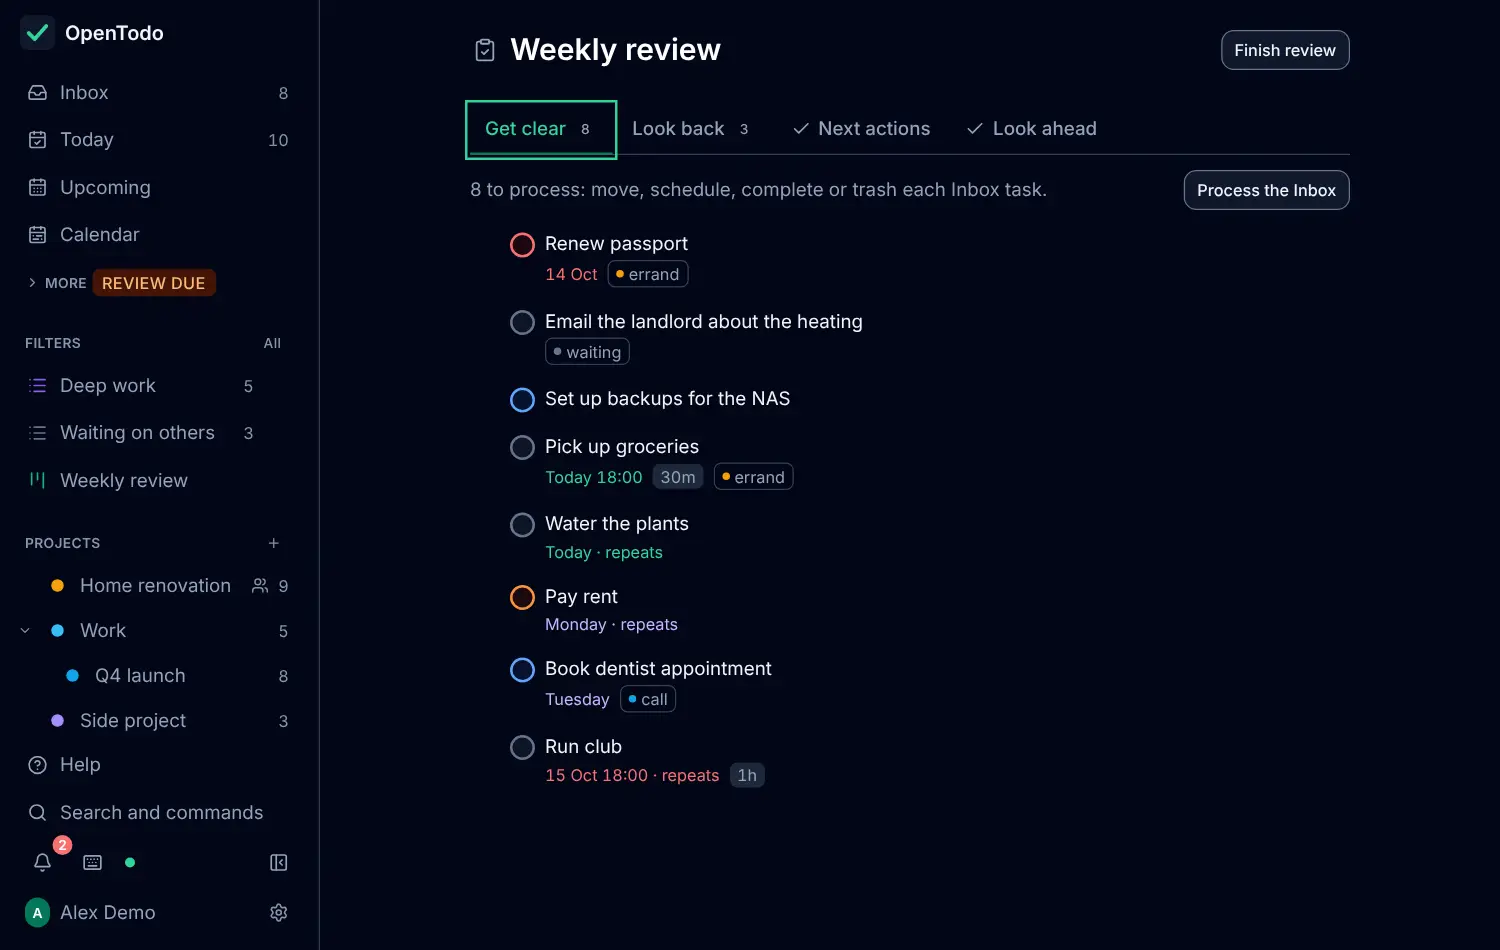
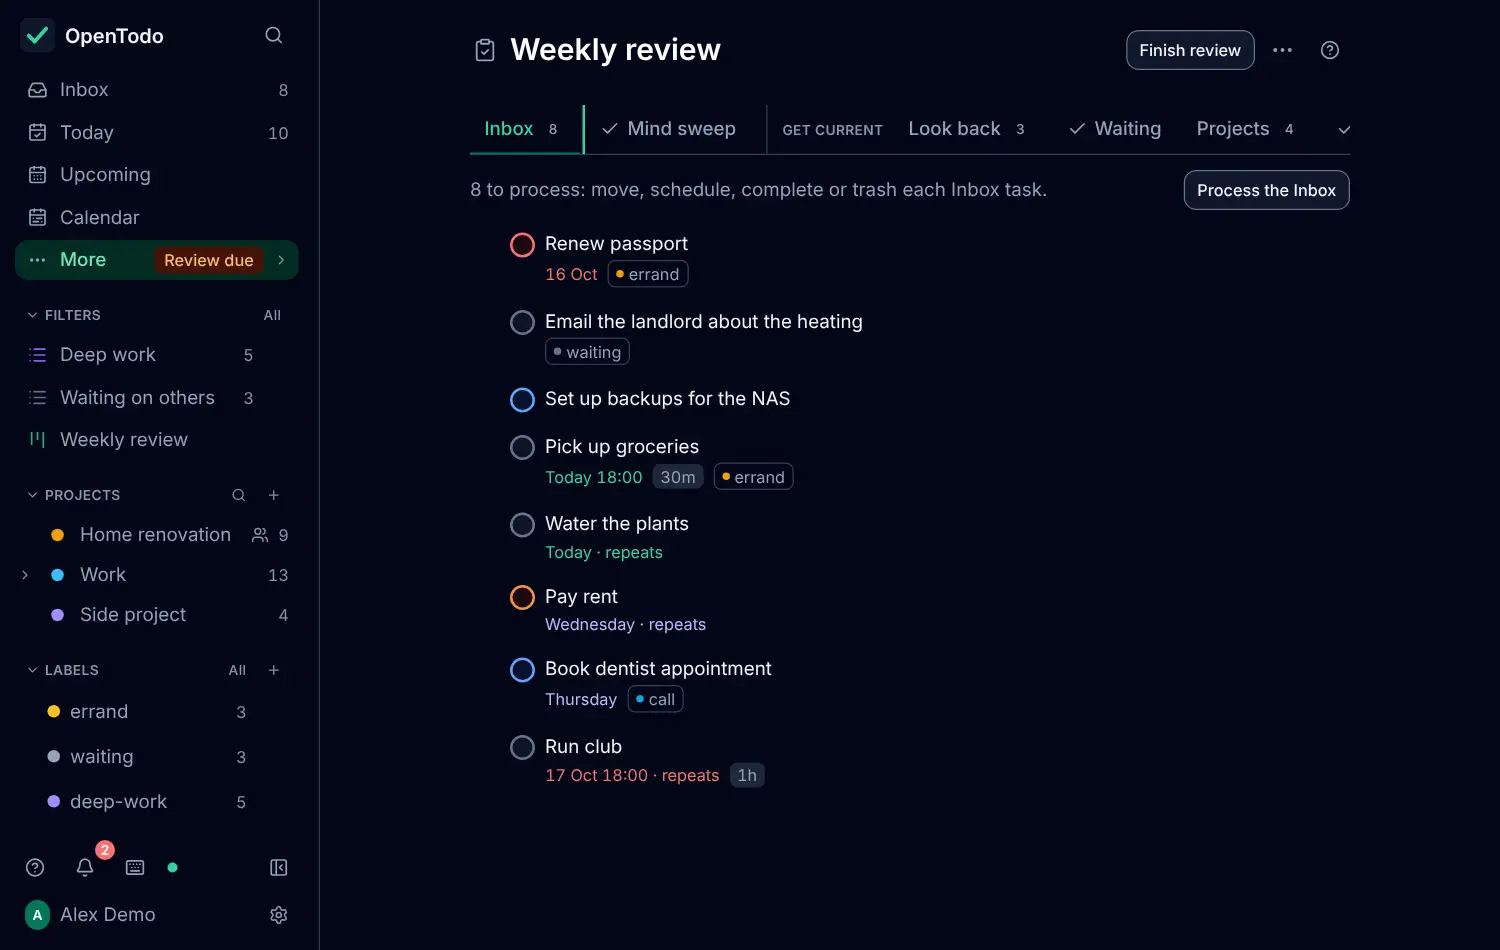
Open Loops: docs screenshots, e2e smoke, roadmap and changelog (open-loops-method 9)
New docs images for the Loop home, Next and the project walk; the review
image refreshed; the e2e smoke walks Open Loops first and back; More no
longer repeats the review marker when Review is primary; the method link
keeps its visible words as its accessible name; review tabs show phase
names from 640 px; ROADMAP row and CHANGELOG entries; smoke notes.

Claude-Session: https://claude.ai/code/session_01Hohs98Cw6DYQoCJH9q4RB6

diff --git a/web/src/ui/Tabs.tsx b/web/src/ui/Tabs.tsx
@@ -1,7 +1,7 @@
 // Tabs (OpenSpec change ui-primitives, design D9): WAI-ARIA tabs with roving
 // focus and automatic activation (arrow keys, Home and End). Tabs may carry a
-// group (open-loops-method D6): a group's name is drawn before its first tab and
-// read with each of its tabs. The row scrolls sideways inside itself when it is
+// group (open-loops-method D6): a group's name is drawn before its first tab (from
+// 640 px; a divider on phones) and read with each of its tabs. The row scrolls sideways inside itself when it is
 // wider than the screen, keeping the selected tab in view.
 import { Fragment, useEffect, useId, useRef, type KeyboardEvent, type ReactNode } from 'react'
 
@@ -35,7 +35,13 @@ export function Tabs({ tabs, value, onChange, label, children }: TabsProps) {
     onChange(tabs[next].id)
     refs.current[tabs[next].id]?.focus()
   }
-  useEffect(() => { refs.current[value]?.scrollIntoView?.({ block: 'nearest', inline: 'nearest' }) }, [value])
+  const groupRefs = useRef<Record<string, HTMLSpanElement | null>>({})
+  // The selected tab comes into view with its group's name when they fit, the tab itself first.
+  const group = tabs.find((t) => t.id === value)?.group
+  useEffect(() => {
+    if (group) groupRefs.current[group]?.scrollIntoView?.({ block: 'nearest', inline: 'nearest' })
+    refs.current[value]?.scrollIntoView?.({ block: 'nearest', inline: 'nearest' })
+  }, [value, group])
   return (
     <div>
       <div role="tablist" aria-label={label} onKeyDown={move} className="ui-scroller flex gap-1 overflow-x-auto overscroll-x-contain border-b border-default" data-tabs-row>
@@ -45,7 +51,7 @@ export function Tabs({ tabs, value, onChange, label, children }: TabsProps) {
           return (
             <Fragment key={t.id}>
             {startsGroup && (
-              <span aria-hidden="true" data-tab-group={t.group} className={`flex shrink-0 items-center whitespace-nowrap pr-1 text-hint font-semibold uppercase tracking-wide text-faint ${i > 0 ? 'ml-2 border-l border-default pl-3' : 'pl-1'}`}>{t.group}</span>
+              <span aria-hidden="true" ref={(el) => { groupRefs.current[t.group!] = el }} data-tab-group={t.group} className={`flex shrink-0 items-center whitespace-nowrap text-hint font-semibold uppercase tracking-wide text-faint ${i > 0 ? 'ml-1 border-l border-default pl-2 sm:ml-2 sm:pl-3' : ''}`}><span className="hidden pr-1 sm:inline">{t.group}</span></span>
             )}
             <button
               ref={(el) => { refs.current[t.id] = el }}

diff --git a/web/src/app/help/methodLink.test.tsx b/web/src/app/help/methodLink.test.tsx
@@ -49,8 +49,8 @@ describe('References to the method (open-loops)', () => {
     const r = await render(<Inbox />)
     await waitFor(() => !!r.container.querySelector('[data-method-link]'))
     const link = r.container.querySelector<HTMLButtonElement>('[data-method-link="catch"]')!
-    expect(link.textContent).toBe('Catch·Open Loops')
-    expect(link.getAttribute('aria-label')).toContain('Open Loops')
+    expect(link.textContent).toBe('Catch·Open Loops: open the method guide')
+    expect(link.getAttribute('aria-label')).toBeNull()
     await click(link)
     expect(opened).toBe('method/catch')
     expect(r.container.querySelector('[data-page-title]')?.textContent).toBe('Inbox')
@@ -72,7 +72,7 @@ describe('References to the method (open-loops)', () => {
     await setMethodMode('first')
     const r = await render(<WithMethod move="clarify"><span data-progress>4 of 17</span></WithMethod>)
     await waitFor(() => !!r.container.querySelector('[data-method-link="clarify"]'))
-    expect(r.container.textContent).toMatch(/^4 of 17·Clarify·Open Loops$/)
+    expect(r.container.textContent).toMatch(/^4 of 17·Clarify·Open Loops: open the method guide$/)
     await r.unmount()
   })
 

diff --git a/web/src/app/help/MethodLink.tsx b/web/src/app/help/MethodLink.tsx
@@ -24,11 +24,12 @@ export function MethodLink({ move }: { move?: MoveId }) {
   const screen = METHOD_HELP_SCREENS[page]
   return (
     <button type="button" data-method-link={page} data-help-screen={screen} aria-haspopup="dialog"
-      aria-label={label ? t('{move}, a move of {method}: open the method guide', { move: label, method: METHOD_NAME }) : t('Open the {method} guide', { method: METHOD_NAME })}
       className="touch-target inline-flex min-w-0 items-center gap-1 truncate rounded-control text-meta text-muted underline decoration-dotted underline-offset-2 hover:text-default"
       onClick={(e) => openHelp(screen, e.currentTarget)}>
       {label && <><span>{label}</span><span aria-hidden="true">·</span></>}
       <span>{METHOD_NAME}</span>
+      {/* The visible words start the accessible name (WCAG 2.5.3 Label in Name); the purpose follows for screen readers. */}
+      <span className="sr-only">{t(': open the method guide')}</span>
     </button>
   )
 }

diff --git a/web/src/app/Sidebar.tsx b/web/src/app/Sidebar.tsx
@@ -346,7 +346,8 @@ export function Sidebar({ route, user, onSearch, onShortcuts, onAssistant, colla
   const more = moreList.map((m) => ({ ...m, node: item(m.route, m.label, m.icon, undefined, m.badge) }))
   const primaryExtra = first ? [] : more.filter((m) => m.id !== 'ask' && promoted.includes(m.id as Promotable))
   // A due review shows on the closed More heading too, so the marker is never hidden.
-  const moreBadge = unreadBadge ?? (due ? <span data-review-due-more><Badge hue="orange">{t('Review due')}</Badge></span> : undefined)
+  // In Open Loops first the Review entry is a primary item, so More does not repeat its marker.
+  const moreBadge = unreadBadge ?? (due && !first ? <span data-review-due-more><Badge hue="orange">{t('Review due')}</Badge></span> : undefined)
   const rest = more.filter((m) => !primaryExtra.includes(m))
 
   return (

diff --git a/web/src/app/sidebar.test.tsx b/web/src/app/sidebar.test.tsx
@@ -145,6 +145,9 @@ describe('primary destinations and More (ux-overhaul 4.1)', () => {
     const r = await render(<Sidebar route={{ view: 'inbox' }} user={user} />)
     await waitFor(() => primaryOf(r.container)[0] === 'loop')
     expect(primaryOf(r.container)).toEqual(['loop', 'inbox', 'today', 'next', 'waiting', 'review'])
+    // Review is a primary item here, so the closed More row does not repeat its marker.
+    expect(r.container.querySelector('[data-review-due-more]')).toBeNull()
+    expect(r.container.querySelector('[data-destination="review"] [data-review-due]')).not.toBeNull()
     await click(moreToggle(r.container))
     expect(moreItems(r.container).slice(0, 4)).toEqual(['upcoming', 'day', 'anytime', 'someday'])
     expect(moreItems(r.container)).not.toContain('loop')

diff --git a/openspec/changes/open-loops-method/tasks.md b/openspec/changes/open-loops-method/tasks.md
@@ -30,7 +30,7 @@
 
 - [x] 4.1 Add `/next` and `/waiting` routes, lazy views on the grouped list rendering (context groups with "Anywhere"; assignee groups then "Blocked by another task"), their empty states, and the shortcuts `g` then `Shift+N` and `g` then `Shift+W` in the registry. Verify with component tests for "Complete and continue", "Empty", "Delegated in triage", "Blocker done" and "Two contexts", and with the shortcut registry test (`npm test`).
 - [x] 4.2 Add `loop`, `next` and `waiting` to the More group, the command palette, the start view choices and the promotable destinations. Verify with `sidebar.test.tsx` cases for "Companion promotes Next" and "Older client", and with the palette test (`npm test`).
-- [ ] 4.3 Pass `MethodLink` on Next (Do) and Waiting (Place), and document both views in `docs/views.md` and `docs/method/places.md`, with screenshots through `make docs-screenshots`. Verify with `npm run docs:check` and `make docs` regenerating `docs/keyboard.md`.
+- [x] 4.3 Pass `MethodLink` on Next (Do) and Waiting (Place), and document both views in `docs/views.md` and `docs/method/places.md`, with screenshots through `make docs-screenshots`. Verify with `npm run docs:check` and `make docs` regenerating `docs/keyboard.md`.
 
 ## 5. The review becomes the Rhythms (design D4, D5, D6)
 
@@ -40,7 +40,7 @@
 - [x] 5.4 Build the project walk card mode (queue ordered by `project_prefs.reviewed_at`, card contents, the keys `r`/`q`/`o`/`a`/`j`/Space/`k` registered in the shortcut table, the live region, the summary after the last card, touch buttons at 360 px). Verify with component tests for "Add a next action, then mark reviewed", "Resume on another device", "Shared project the user cannot edit", "Archive offline" and both "Personal review stamp" scenarios, and with the layout check at 360 px (`npm test`, `make layout-check`).
 - [x] 5.5 Build the Daily check (`/review/daily`, `g` then `Shift+R`, `f` focus toggle up to three, "Done for today") and the Monthly look (`/review/monthly`: Areas, Old someday, Trend), both in the header menu. Verify with component tests for "Pick a focus", "Next day", "Done for today", "Areas with stalled children" and "Daily and weekly on different devices" (`npm test`).
 - [x] 5.6 Implement the rhythm markers per mode on the sidebar Review entry and the once-a-day daily check toast in `first` mode (a per-device date in local storage). Verify with tests for "Lists only" and "Open Loops first in the morning", plus "Review due" (`npm test`).
-- [ ] 5.7 Rewrite `docs/review-and-statistics.md` for the seven steps, the walk, the Daily check and the Monthly look, and `docs/method/review.md` and `rhythms.md` to match, with new screenshots. Refresh the `weekly-review` assistant skill's instructions to follow the new steps (same id). Verify with `npm run docs:check`, `make docs`, and the assistant skills test still listing five skills (`go test ./internal/assistant/...`).
+- [x] 5.7 Rewrite `docs/review-and-statistics.md` for the seven steps, the walk, the Daily check and the Monthly look, and `docs/method/review.md` and `rhythms.md` to match, with new screenshots. Refresh the `weekly-review` assistant skill's instructions to follow the new steps (same id). Verify with `npm run docs:check`, `make docs`, and the assistant skills test still listing five skills (`go test ./internal/assistant/...`).
 
 ## 6. How you work, the Loop home and the sidebar (design D2, D7, D9)
 
@@ -48,7 +48,7 @@
 - [x] 6.2 Make `sidebarLayout.ts` mode-aware (`first`: Loop home, Inbox, Today, Next, Waiting, Review; promotions set aside but kept) and disable the destination switches in Settings → Appearance in `first` mode. Verify with `sidebar.test.tsx` cases for "Default sidebar" (four destinations), "Open Loops first sidebar", "Promotions kept across modes" and "Open Loops first" (appearance), and with `budget.test.tsx` holding at six (`npm test`).
 - [x] 6.3 Build the Loop home (`/loop`, `g` then `Shift+L`, five tiles with live counts, today's focus rows, one column at 360 px, list semantics). Verify with component tests for "Morning on the Loop home", "A capture from another device" and "Keyboard path", plus an axe check and the layout check at 360 px (`npm test`, `make layout-check`).
 - [x] 6.4 Verify the mode is presentation-only. Write a test that switching through all three modes writes exactly one `user_prefs` op each and no op on any task, project, label or view ("Switching back loses nothing"), and one for "Existing account after upgrade" (`npm test`).
-- [ ] 6.5 Document Settings → You → How you work in `docs/settings-you.md` and `docs/method/set-up.md`, with screenshots of the three sidebars. Verify with `npm run docs:check` and `make docs`.
+- [x] 6.5 Document Settings → You → How you work in `docs/settings-you.md` and `docs/method/set-up.md`, with screenshots of the three sidebars. Verify with `npm run docs:check` and `make docs`.
 
 ## 7. First run (design D10)
 
@@ -60,8 +60,8 @@
 
 ## 9. Roadmap, changelog and integration
 
-- [ ] 9.1 Add the "Open Loops method" row (`open-loops-method`) to section 3 of `ROADMAP.md` and a CHANGELOG entry under Unreleased that mentions the changed "without a next action" definition in the digest. Verify with `make repo-check`.
-- [ ] 9.2 Extend `scripts/e2e-smoke.mjs`:
+- [x] 9.1 Add the "Open Loops method" row (`open-loops-method`) to section 3 of `ROADMAP.md` and a CHANGELOG entry under Unreleased that mentions the changed "without a next action" definition in the digest. Verify with `make repo-check`.
+- [x] 9.2 Extend `scripts/e2e-smoke.mjs`:
   1. Pick Open Loops first.
   2. Check the six sidebar destinations.
   3. Open the Loop home.

diff --git a/CHANGELOG.md b/CHANGELOG.md
@@ -7,10 +7,14 @@ All notable changes to OpenTodo are documented here. The format follows [Keep a 
 ### Added
 
 - **A thank-you for new servers.** The first time the owner opens a new server, a short note thanks them for installing OpenTodo and links to the issue tracker, the GitHub repository and Buy Me a Coffee. It shows once per account and never to invited members or on the demo. ([Feedback and support](docs/feedback-and-support.md))
+- **Open Loops, a calm method for everything on your mind.** OpenTodo now has a method of its own, inspired by GTD: catch, clarify, place, do and review. Choose how prominent it is in **Settings → Account → How you work**: **Lists only** (as before), **Companion** (screens name the move they serve and link to the method) or **Open Loops first** (the new **Loop home** opens first and the sidebar is arranged by the Places). New views: **Next** (<kbd>g</kbd> <kbd>Shift+N</kbd>), each project's next action grouped by `@context` labels, and **Waiting** (<kbd>g</kbd> <kbd>Shift+W</kbd>), what you assigned to someone else or is blocked. The method has its own chapter in the docs and Help. ([Open Loops](docs/method/overview.md))
+- **The weekly review walks every project.** Seven steps in three phases: the Inbox and a Mind sweep, then what slipped, what is waiting, each project one card at a time (<kbd>r</kbd> marks it reviewed, <kbd>q</kbd> adds a next action), the week ahead, and Someday. Your mark on a shared project is yours alone. A five-minute **Daily check** (<kbd>g</kbd> <kbd>Shift+R</kbd>) picks up to three tasks as today's focus, and a **Monthly look** covers your areas, old Someday items and the four-week trend. ([Weekly review](docs/review-and-statistics.md), [Rhythms](docs/method/rhythms.md))
 - **Settings → About.** A new section for everyone with the server's version, Help, the documentation and the website, the issue tracker, the source code and a Buy Me a Coffee button; the owner can show the welcome note again from there.
 
 ### Changed
 
+- **"Projects without a next action" counts waiting and deferred tasks.** In the review and the weekly email digest, a project whose open tasks are all assigned to someone else, blocked, or start later is no longer listed; one whose only tasks are parked in Someday now is. ([Places](docs/method/places.md#projects-without-a-next-action))
+- **Statistics and the weekly digest have their own guide page**, next to the weekly review's. ([Statistics and the weekly digest](docs/statistics.md))
 - **A roomier sidebar on a computer.** Search sits next to the OpenTodo name, Help joins the icons in one footer row, and **More** opens as a menu instead of pushing your projects down. Filters and Labels appear once you have one, rows are a little tighter with a mouse, and the sidebar has a thin scrollbar with a soft fade where more is hidden. In a 1280×600 window seven projects now fit instead of two. Touch screens keep their larger targets and the inline More group.
 
 ## [0.7.1] - 2026-10-18

diff --git a/docs/review-and-statistics.md b/docs/review-and-statistics.md
@@ -9,7 +9,7 @@ order: 24
 ---
 # Weekly review
 
-<picture><source srcset="images/review-dark.webp" media="(prefers-color-scheme: dark)"><img src="images/review-light.webp" alt="The Weekly review screen on its first step, Get clear: four step tabs with counts, two Inbox tasks, and the Finish review button."></picture>
+<picture><source srcset="images/review-dark.webp" media="(prefers-color-scheme: dark)"><img src="images/review-light.webp" alt="The Weekly review screen on its first step, the Inbox: seven step tabs in three phases with counts, the Inbox tasks to process, and the Finish review button."></picture>
 
 Once a week, look back at what happened and set up the week ahead. Open **Review** in the sidebar (under More) or press <kbd>g</kbd> <kbd>r</kbd>. It is the weekly rhythm of [Open Loops](method/review.md); the [Daily check and the Monthly look](method/rhythms.md) are in the page's menu.
 
@@ -31,6 +31,8 @@ The review opens on the first step that is not done. Move between steps with the
 7. **Someday**: what you parked. <kbd>n</kbd> brings a task back.
 
 Lists use the usual keys, offline too.
+
+<picture><source srcset="images/review-walk-dark.webp" media="(prefers-color-scheme: dark)"><img src="images/review-walk-light.webp" alt="The Projects step of the weekly review: one card for the project Home renovation, never reviewed, with its next action and one waiting task, and the buttons Looks good, Add a next action, Open, Archive, Skip and Back with their keys."></picture>
 
 ## Finishing a review
 

diff --git a/openspec/changes/open-loops-method/notes.md b/openspec/changes/open-loops-method/notes.md
@@ -1,0 +1,16 @@
+# Notes
+
+## Smoke on a built server (task 9.3), 2026-10-18
+
+Run against `./bin/opentodo` with a fresh data directory, two browser contexts signed in as the same user (Playwright, Chromium):
+
+- Device A picks **Open Loops first** in Settings → Account; device B's sidebar switches to Loop home, Inbox, Today, Next, Waiting, Review after sync. ✔
+- Device B shows the Daily check in the Review marker's text alternative; after device A presses **Done for today**, device B's marker no longer names it. ✔
+- Device B goes offline, opens the project walk and presses `r` on Garage; after reconnecting, device A's walk shows Garage as reviewed. ✔
+
+`scripts/e2e-smoke.mjs` also passes with its Open Loops step (first mode, Loop home, triage from the Clarify tile, two walk cards, a daily focus, back to Lists only).
+
+Not done in this environment:
+
+- **Per-user stamps with a second member of a shared project in the browser.** Covered instead by `internal/sync` `TestReviewStampIsPersonal` (two accounts, one shared project, each member's stamp reaches only their own devices) and by the web walk tests.
+- **A screen-reader pass** (VoiceOver or NVDA) over the Loop home and the walk: no screen reader is available here. The axe checks in the Loop home test and the Storybook a11y gate pass, and the live-region announcements are covered by component tests. A manual pass is still worth doing before release.

diff --git a/ROADMAP.md b/ROADMAP.md
@@ -48,6 +48,7 @@ New work starts the same way: `openspec new change <name>` or `/opsx:propose "<i
 | Trash with restore, auto-archive of completed projects, revision history from the op log | `trash-and-history` |
 | Drag-and-drop ordering | `manual-ordering` |
 | Custom fields per project: text, number, date, choice, link and checkbox values on tasks, in the panel, on cards, as columns and in filters | `custom-fields` |
+| Open Loops, OpenTodo's own method inspired by GTD: the five moves, Next and Waiting views, the Loop home, a weekly review that walks every project with a Daily check and a Monthly look, and a choice of how prominent it is (Lists only, Companion, Open Loops first) | `open-loops-method` |
 | Appearance: light, dark or system, and eight colour themes, synced to every device | `theming` |
 
 ### 4. Time management

diff --git a/docs/method/overview.md b/docs/method/overview.md
@@ -43,4 +43,6 @@ It is OpenTodo's own method, inspired by David Allen's GTD and simplified. You c
 
 ## How prominent it is
 
+<picture><source srcset="../images/loop-dark.webp" media="(prefers-color-scheme: dark)"><img src="../images/loop-light.webp" alt="The Loop home in Open Loops first: the sidebar shows Loop home, Inbox, Today, Next, Waiting and Review, and five tiles count what is in the Inbox, what to decide, projects without a next action, next actions and what is due to review."></picture>
+
 In **Settings → You → How you work** you choose how much the app shows the method: **Lists only** (no method words at all), **Companion** (screens name the move they serve and link here) or **Open Loops first** (the Loop home opens first and the sidebar is arranged by the Places). See [Set up in ten minutes](set-up.md).

diff --git a/docs/method/do.md b/docs/method/do.md
@@ -13,6 +13,8 @@ Work from your next actions, by context, one step at a time. Choosing what to do
 
 ## The Next view
 
+<picture><source srcset="../images/next-dark.webp" media="(prefers-color-scheme: dark)"><img src="../images/next-light.webp" alt="The Next view: the next action of four projects under Anywhere, each with its date and project."></picture>
+
 **Next** (<kbd>g</kbd> <kbd>Shift+N</kbd>) shows the next action of every project: its first task, in the project's order, that you can do now. A task is left out while it waits for another open task, is assigned to someone else, is deferred to a later start date or parked in Someday. Complete one with <kbd>c</kbd> and the project's following step takes its place.
 
 ## Contexts
